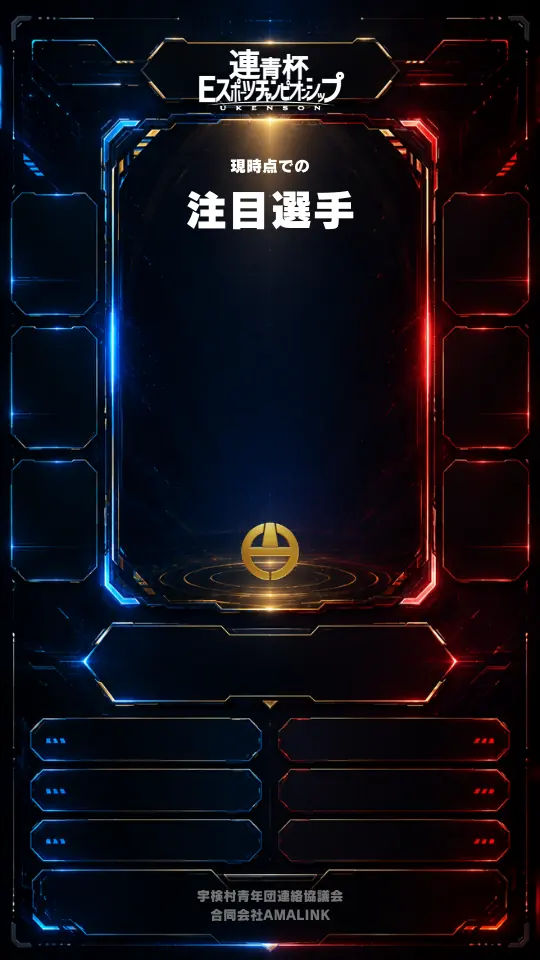
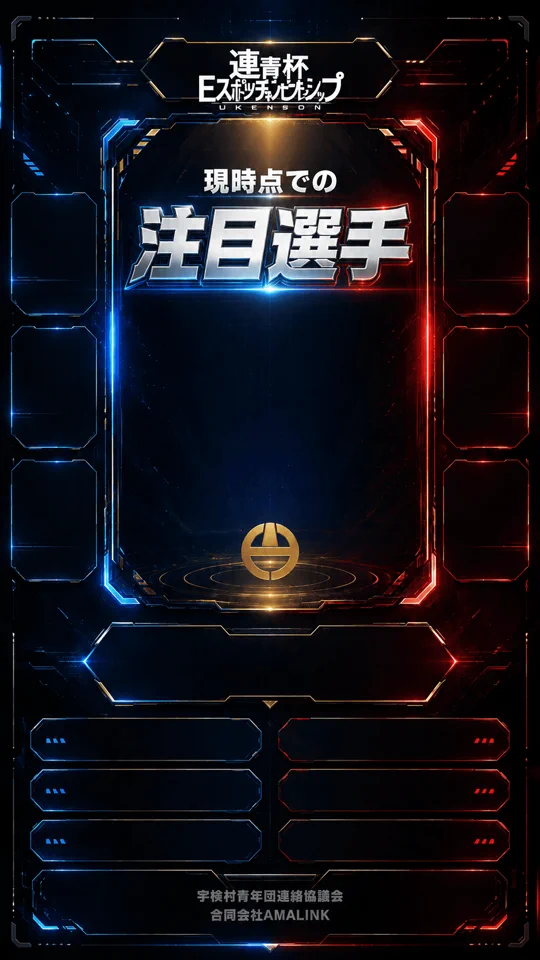
注目選手テンプレートと表示を調整

diff --git a/src/App.jsx b/src/App.jsx
@@ -1924,7 +1924,19 @@ function PlayerLookupView({ state, bracket, playerPage = false }) {
       ? matches[0] || null
       : null
   const profile = selectedPlayer ? buildPlayerProfile(selectedPlayer, state, bracket) : null
-  const showProfileStatus = profile && !['waiting', 'registered'].includes(profile.status.type)
+  const queueLabel =
+    !profile || profile.matchesUntil === null
+      ? '—'
+      : profile.matchesUntil === 0
+        ? 'まもなく'
+        : String(profile.matchesUntil)
+  const queueUnit =
+    !profile || profile.matchesUntil === null
+      ? 'WAIT'
+      : profile.matchesUntil === 0
+        ? 'NOW'
+        : 'MATCHES'
+  const showProfileStatus = profile?.status.type !== 'waiting'
 
   const content = (
     <>
@@ -2003,6 +2015,14 @@ function PlayerLookupView({ state, bracket, playerPage = false }) {
             </div>
             {showProfileStatus && <span className={clsx('player-page-status', profile.status.tone)}>{profile.status.label}</span>}
           </div>
+
+          <section className="player-page-queue" aria-label="あなたの番まで">
+            <span>あなたの番まで</span>
+            <strong>{queueLabel}</strong>
+            <small>{queueUnit}</small>
+            <p>{profile.waitEstimate || '次の試合枠が未確定です'}</p>
+            {profile.matchesUntil === 0 && <em className="player-page-queue-live">控え室へ向かってください</em>}
+          </section>
 
           <section className="player-page-stack">
             <article className="player-page-card">

diff --git a/src/App.css b/src/App.css
@@ -3704,6 +3704,7 @@ html.overlay-root #root {
 }
 
 .spotlight-player-slot.second .spotlight-name {
+  padding-right: 11cqw;
   font-size: 5cqw;
   background: linear-gradient(180deg, #ffffff 15%, #e4edf9 50%, #a9c2e2 100%);
   -webkit-background-clip: text;
@@ -3732,6 +3733,7 @@ html.overlay-root #root {
 }
 
 .spotlight-player-slot.small .spotlight-name {
+  padding-right: 7.5cqw;
   font-size: 3.6cqw;
 }
 
@@ -3957,8 +3959,8 @@ html.overlay-root #root {
 .spotlight-player-slot > .player-good-anchor {
   position: absolute;
   top: 50%;
-  right: -5.2cqw;
-  translate: 50% -50%;
+  right: 2cqw;
+  translate: 0 -50%;
 }
 
 .spotlight-player-slot > .player-good-anchor .player-good-button {
@@ -3971,9 +3973,9 @@ html.overlay-root #root {
 }
 
 .spotlight-player-slot.first > .player-good-anchor {
-  top: calc(100% + 1.2cqw);
-  right: 50%;
-  translate: 50% 0;
+  top: 62%;
+  right: -1.5cqw;
+  translate: 50% -50%;
 }
 
 .spotlight-player-slot.first > .player-good-anchor .player-good-button,
@@ -3987,7 +3989,7 @@ html.overlay-root #root {
 }
 
 .spotlight-player-slot.second > .player-good-anchor {
-  right: -5.2cqw;
+  right: 2cqw;
 }
 
 .rb-slot > .player-good-anchor {